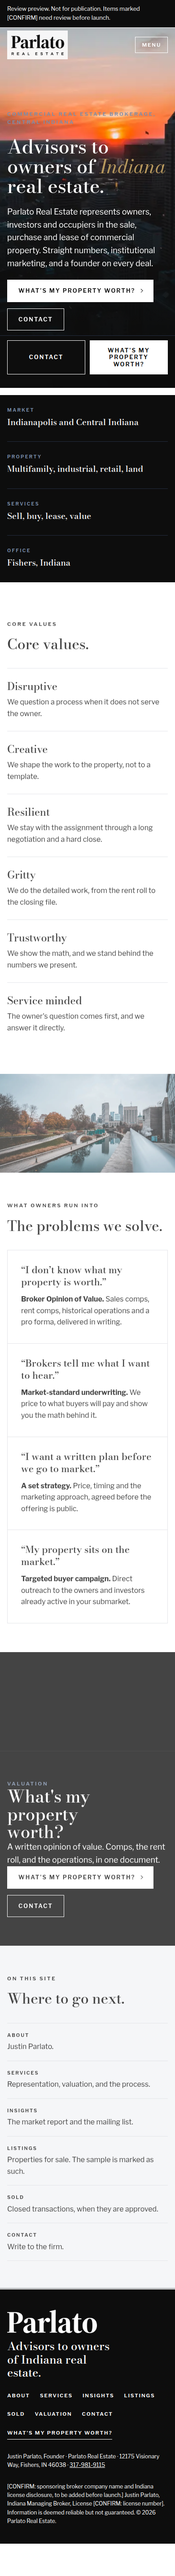
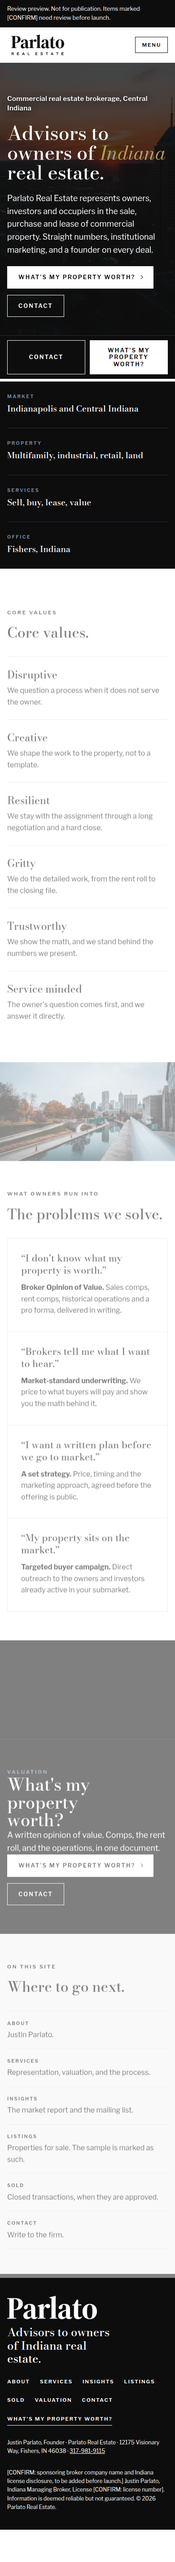
Make the header a solid white bar and enlarge the home hero line.
The logo and navigation stay on white across the viewport, and the photograph starts below that bar. The home line is 18px on desktop and 15px on a phone, in white, over a darker scrim.

diff --git a/css/styles.css b/css/styles.css
@@ -234,31 +234,14 @@ p { margin: 0; }
 }
 .band.ink .confirm, .hero .confirm, .foot .confirm { color: var(--white); }
 
-/* Header */
+/* Header. Solid white across the viewport, including while sticky. */
 .site-head {
   position: sticky;
   top: env(safe-area-inset-top, 0px);
   z-index: 50;
+  width: 100%;
   background: #fff;
-  border-bottom: 1px solid var(--rule);
-  transition: background 0.25s ease, border-color 0.25s ease, color 0.25s ease;
-}
-body.has-hero .site-head {
-  background: transparent;
-  border-bottom-color: transparent;
-}
-body.has-hero .site-head .nav a:not(.btn) { color: var(--white); }
-body.has-hero .nav-toggle { color: var(--white); border-color: var(--white); }
-body.has-hero .site-head.is-solid {
-  background: #fff;
-  border-bottom-color: var(--rule);
-}
-body.has-hero .site-head.is-solid .nav a:not(.btn) { color: var(--black); }
-body.has-hero .site-head.is-solid .nav-toggle { color: var(--black); border-color: var(--black); }
-body.has-hero .site-head:not(.is-solid) .nav a:not(.btn):hover { color: var(--gold); }
-@media (max-width: 960px) {
-  body.has-hero .nav a:not(.btn) { color: var(--black); }
-  body.has-hero .site-head:not(.is-solid) .nav a:not(.btn):hover { color: var(--navy); }
+  border-bottom: 1px solid #DCDEE3;
 }
 .site-head .wrap {
   display: flex;
@@ -266,12 +249,11 @@ body.has-hero .site-head:not(.is-solid) .nav a:not(.btn):hover { color: var(--go
   justify-content: space-between;
   gap: 24px;
   min-height: 78px;
-  position: relative;
 }
 .logo { text-decoration: none; color: inherit; flex: 0 0 auto; }
 .logo-plate {
   display: block;
-  background: rgba(255, 255, 255, 0.88);
+  background: #fff;
   padding: var(--logo-clear);
 }
 .logo img {
@@ -302,7 +284,7 @@ body.has-hero .site-head:not(.is-solid) .nav a:not(.btn):hover { color: var(--go
   color: var(--black);
 }
 @media (max-width: 960px) {
-  .nav-toggle { display: block; }
+  .nav-toggle { display: block; background: #fff; color: var(--black); border-color: var(--black); }
   .nav {
     display: none;
     position: absolute;
@@ -312,11 +294,14 @@ body.has-hero .site-head:not(.is-solid) .nav a:not(.btn):hover { color: var(--go
     flex-direction: column;
     align-items: flex-start;
     gap: 20px;
-    background: var(--white);
-    border-bottom: 1px solid var(--rule);
+    background: #fff;
+    color: var(--black);
+    border-bottom: 1px solid #DCDEE3;
     padding: 24px max(16px, env(safe-area-inset-right, 0px)) 28px max(16px, env(safe-area-inset-left, 0px));
   }
   .nav.open { display: flex; }
+  .nav a:not(.btn) { color: var(--black); }
+  .nav .btn.solid { background: var(--black); color: var(--white); border-color: var(--black); }
 }
 
 /* Hero */
@@ -1075,8 +1060,20 @@ input:focus, select:focus, textarea:focus {
   align-items: flex-end;
   justify-content: flex-start;
   width: 100%;
-  background: linear-gradient(to top, rgba(13, 13, 13, 0.94) 0%, rgba(13, 13, 13, 0.62) 32%, rgba(13, 13, 13, 0) 62%);
+  background: linear-gradient(to top, rgba(13, 13, 13, 0.92) 0%, rgba(13, 13, 13, 0.8) 46%, rgba(13, 13, 13, 0.68) 100%);
   padding: 0 0 76px;
+}
+.hero-kicker {
+  color: #fff;
+  font-weight: 600;
+  font-size: 15px;
+  line-height: 1.4;
+  letter-spacing: 0.02em;
+  text-transform: none;
+  text-shadow: 0 1px 2px rgba(13, 13, 13, 0.85), 0 2px 16px rgba(13, 13, 13, 0.55);
+}
+@media (min-width: 760px) {
+  .hero-kicker { font-size: 18px; }
 }
 .hero-photo .hero-copy,
 .page-hero .wrap,
@@ -1097,6 +1094,7 @@ input:focus, select:focus, textarea:focus {
 .hero-photo h1 em { font-style: italic; font-weight: 400; color: var(--gold); }
 .hero-photo .lede { color: var(--white); max-width: 62ch; }
 .hero-photo .eyebrow { color: var(--slate); }
+.hero-photo .hero-kicker { color: #fff; }
 .hero-photo .btn.solid,
 .page-hero .btn.solid {
   background: var(--white);
@@ -1188,7 +1186,6 @@ input:focus, select:focus, textarea:focus {
 .about-sections .confirm { display: block; }
 
 .page-hero.compact { padding-bottom: 20px; }
-body.has-hero .page-hero.compact { padding-top: calc(78px + 28px); padding-bottom: 20px; }
 .market-band { padding-top: 22px; }
 .market-band .wrap { max-width: min(1440px, calc(100% - 32px)); }
 .market-layout {
@@ -1264,12 +1261,8 @@ body.has-hero .page-hero.compact { padding-top: calc(78px + 28px); padding-botto
 .deal:hover img { transform: scale(1.05); }
 .route { transition: background 0.2s ease; }
 .route:hover { background: var(--stone); }
-body.has-hero .hero-photo { margin-top: -78px; min-height: calc(100svh - 42px); }
-body.has-hero .hero-photo.short { min-height: 72vh; }
-body.has-hero .page-hero { margin-top: -78px; padding-top: calc(78px + clamp(48px, 8vw, 92px)); }
 .hero-photo.short { min-height: 72vh; }
-.hero-photo.banner,
-body.has-hero .hero-photo.banner { min-height: 52vh; }
+.hero-photo.banner { min-height: 52vh; }
 .worth-band h2 { font-size: clamp(2.4rem, 5vw, 4.2rem); max-width: 12ch; line-height: 1.02; text-align: left; }
 .next-steps { margin: 8px 0 0; padding-left: 1.2em; display: grid; gap: 10px; }
 .next-steps li { max-width: 46ch; }

diff --git a/index.html b/index.html
@@ -42,7 +42,7 @@
       <img class="hero-img" src="images/hero-indy-skyline-1920.webp" srcset="images/hero-indy-skyline-800.webp 800w, images/hero-indy-skyline-1280.webp 1280w, images/hero-indy-skyline-1920.webp 1920w" sizes="100vw" alt="Downtown Indianapolis skyline at sunset, a placeholder photograph" width="1920" height="1079" fetchpriority="high" decoding="async">
       <div class="hero-scrim">
         <div class="wrap hero-copy">
-          <p class="eyebrow">Commercial real estate brokerage, Central Indiana</p>
+          <p class="eyebrow hero-kicker">Commercial real estate brokerage, Central Indiana</p>
           <h1 id="hero-h">Advisors to owners of <em>Indiana</em> real estate.</h1>
           <p class="lede">Parlato Real Estate represents owners, investors and occupiers in the sale, purchase and lease of commercial property. Straight numbers, institutional marketing, and a founder on every deal.</p>
           <!-- Claim kept from the draft and flagged for verification: "a founder on every deal." -->

diff --git a/js/main.js b/js/main.js
@@ -1,17 +1,4 @@
 (function () {
-  var head = document.querySelector(".site-head");
-  var first = document.querySelector("main > section, main > .hero-photo");
-  if (head && first && (first.classList.contains("hero-photo") || first.classList.contains("page-hero"))) {
-    document.body.classList.add("has-hero");
-    var reduce = window.matchMedia("(prefers-reduced-motion: reduce)").matches;
-    function paintHead() {
-      head.classList.toggle("is-solid", window.scrollY > 24);
-    }
-    paintHead();
-    window.addEventListener("scroll", paintHead, { passive: true });
-    if (reduce) head.classList.add("is-solid");
-  }
-
   document.documentElement.classList.add("js");
   var revealReduce = window.matchMedia("(prefers-reduced-motion: reduce)").matches;
   if (!revealReduce && "IntersectionObserver" in window) {

diff --git a/CHANGES.md b/CHANGES.md
@@ -13,6 +13,8 @@ The site is now separate pages. Navigation order is About, Services, Insights, L
 - About is a founder layout (centered heading, portrait beside the name, role line, credential rows). Longer bio sections are placeholder blocks, not new copy.
 - Listings uses one data file, a grayscale Leaflet map (OpenStreetMap raster tiles, no WebGL), and filterable cards. The map is the large sticky pane. The only record is the illustrative Riverbend Commons sample, and its price is shown as "Price: sample" so the figure is not read as a live asking price. Sold is an empty map plus an empty table.
 - The home hero still includes the flagged line "A founder on every deal." It is kept on purpose and listed under Claims flagged for verification.
+- The header is a solid white bar across the full width on every page, with the black logo and dark navigation. It stays white while sticky. The hero photograph starts below the bar.
+- The home line "Commercial real estate brokerage, Central Indiana" is 18px on desktop and 15px on a phone, Libre Franklin 600, white, with a darker lower-left scrim and a soft shadow.
 - Design re-audit is in `DESIGN-AUDIT.md`. About, Contact, and Valuation open on a short photograph. Listing cards are photo first. An empty Sold page does not draw a map or a building photograph. The Services page no longer repeats the same photograph in one view.
 - Photo spots use licensed stand-in photographs, credited in `images/CREDITS.md`, each marked [PLACEHOLDER PHOTO: replace with Parlato photography]. Joseph's three named aerial files were not in the workspace, so Indianapolis skyline, canal, Monument Circle, and a cropped downtown-grid aerial fill those roles. The headshot stays grayscale.
 - The contact form posts to `functions/api/contact.js`. With no env vars it returns "not configured," and the page shows "Preview only, not connected."
